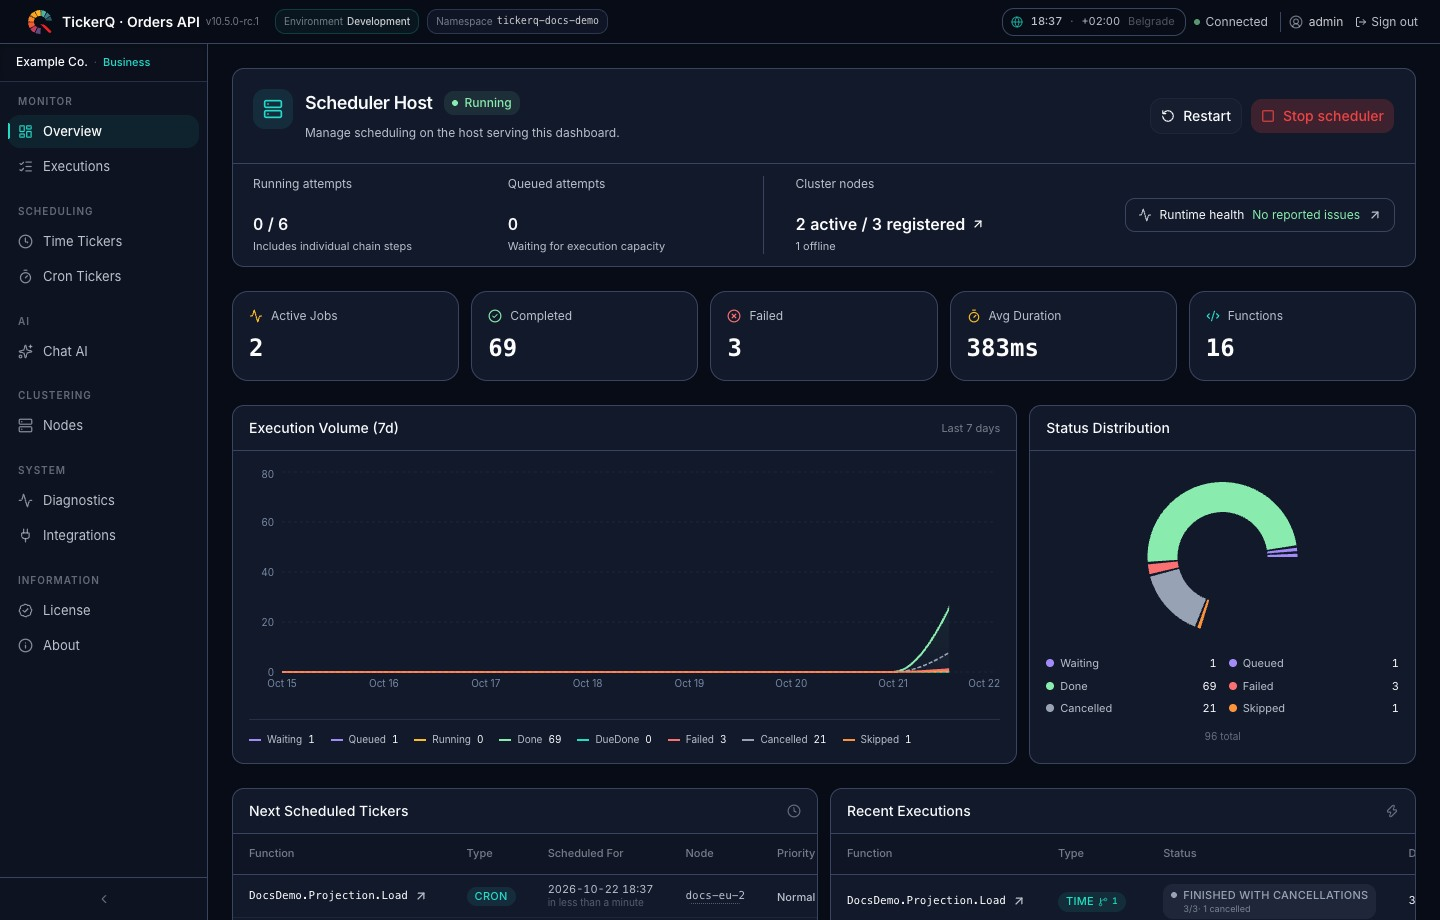
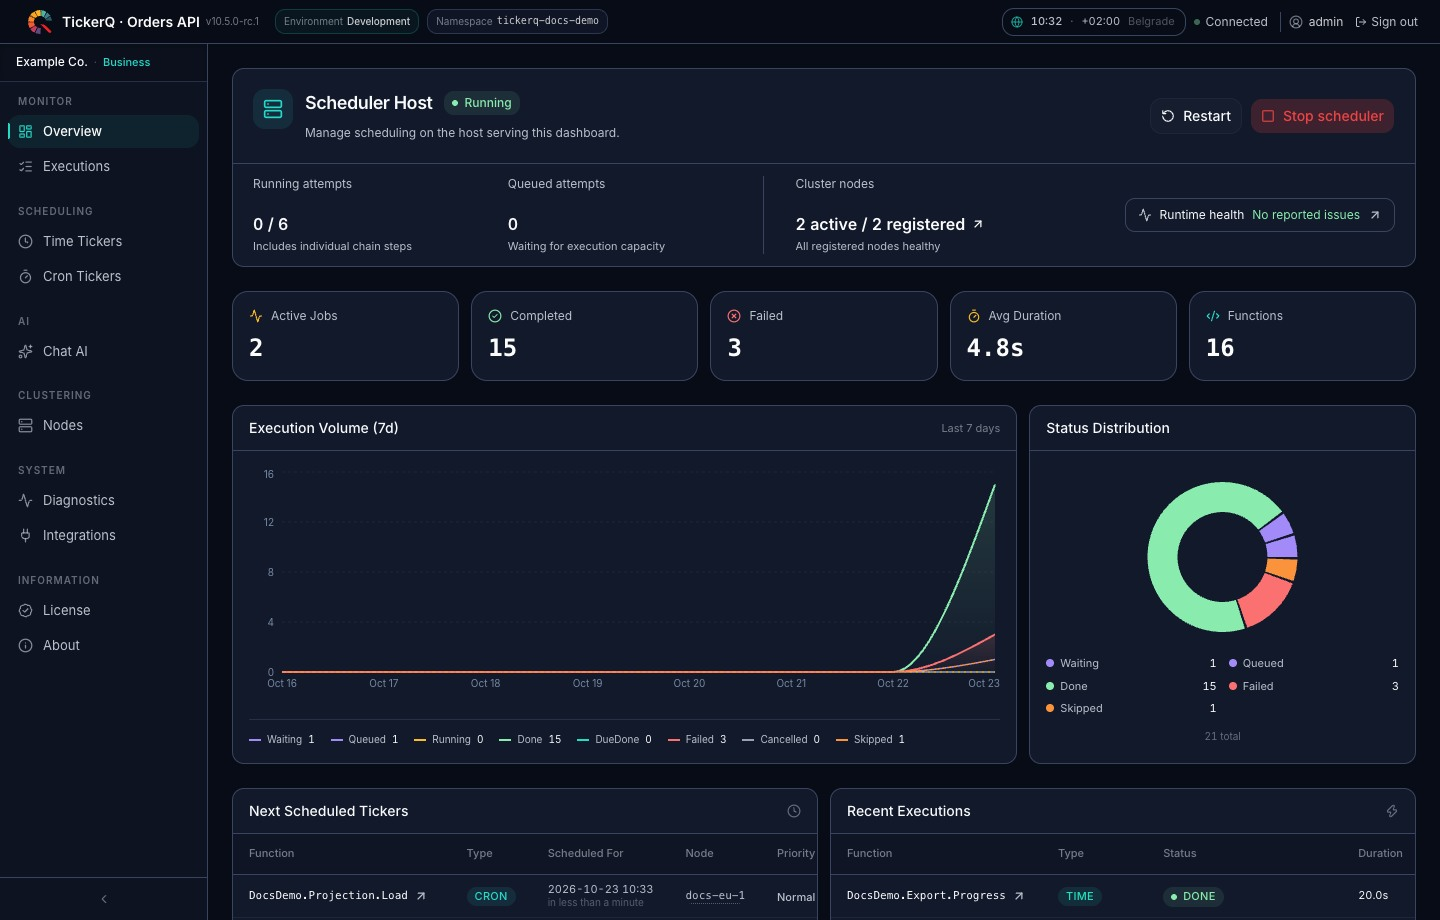
Refresh dashboard overview screenshot

diff --git a/README.md b/README.md
@@ -32,7 +32,7 @@
 
 <p align="center">
   <a href="https://tickerq.net/docs/5.x/dashboard/tour">
-    <img src="https://raw.githubusercontent.com/Arcenox-co/TickerQ/main/docs/images/dashboard/overview.jpg" alt="TickerQ dashboard showing scheduler health, active nodes, execution statistics, recent jobs, and upcoming work" width="1200" />
+    <img src="https://raw.githubusercontent.com/Arcenox-co/TickerQ/main/docs/images/dashboard/overview-2026-10-23.jpg" alt="TickerQ dashboard showing scheduler health, active nodes, execution statistics, recent jobs, and upcoming work" width="1200" />
   </a>
   <br />
   <sub>The current 5.x dashboard running on a two-node documentation demo. Workspace and certificate identifiers are anonymized.</sub>
